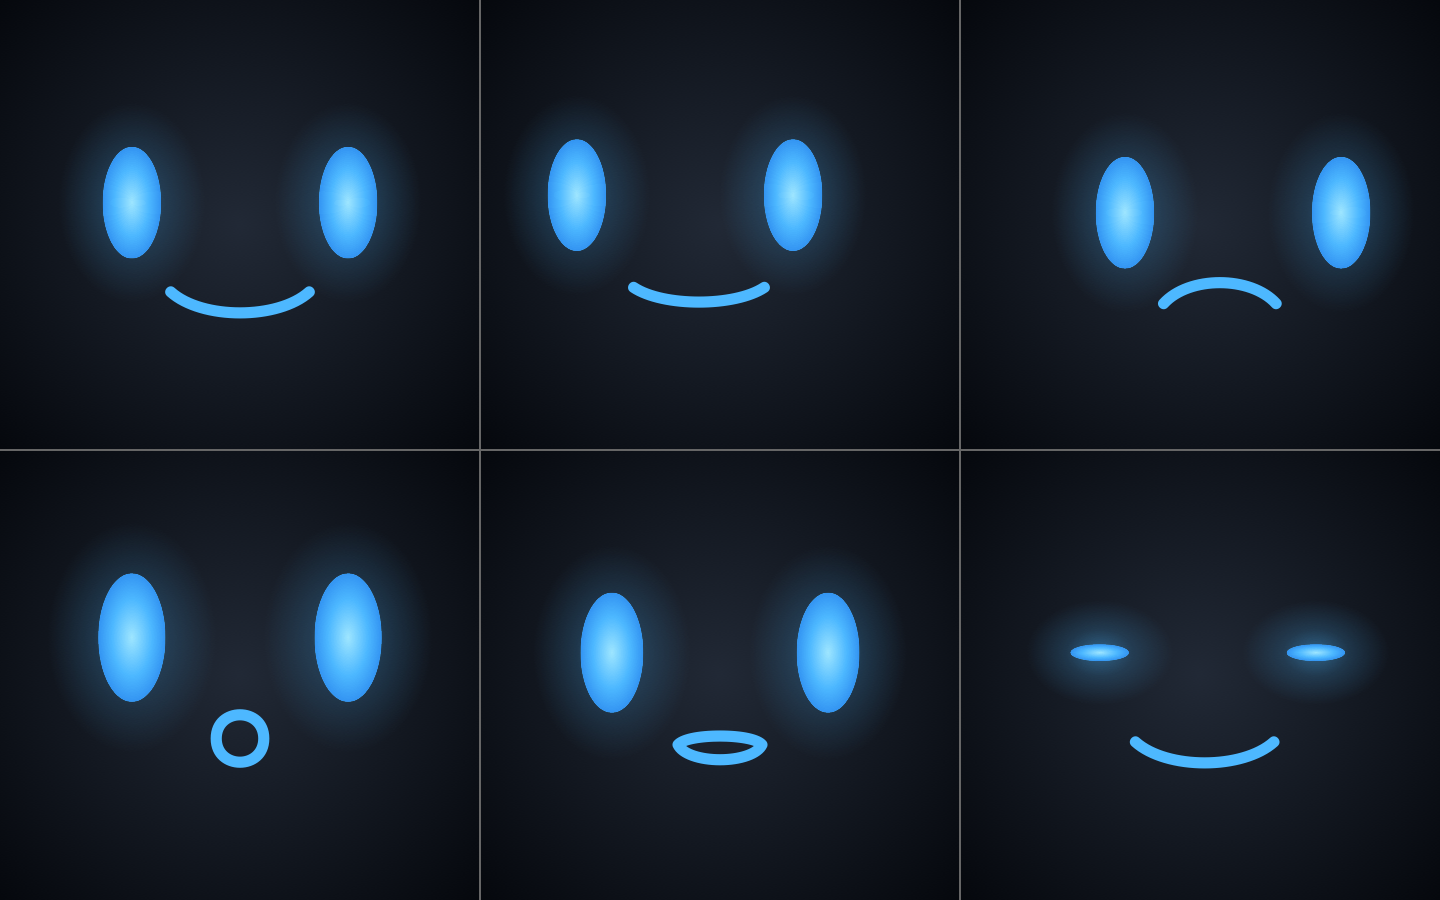
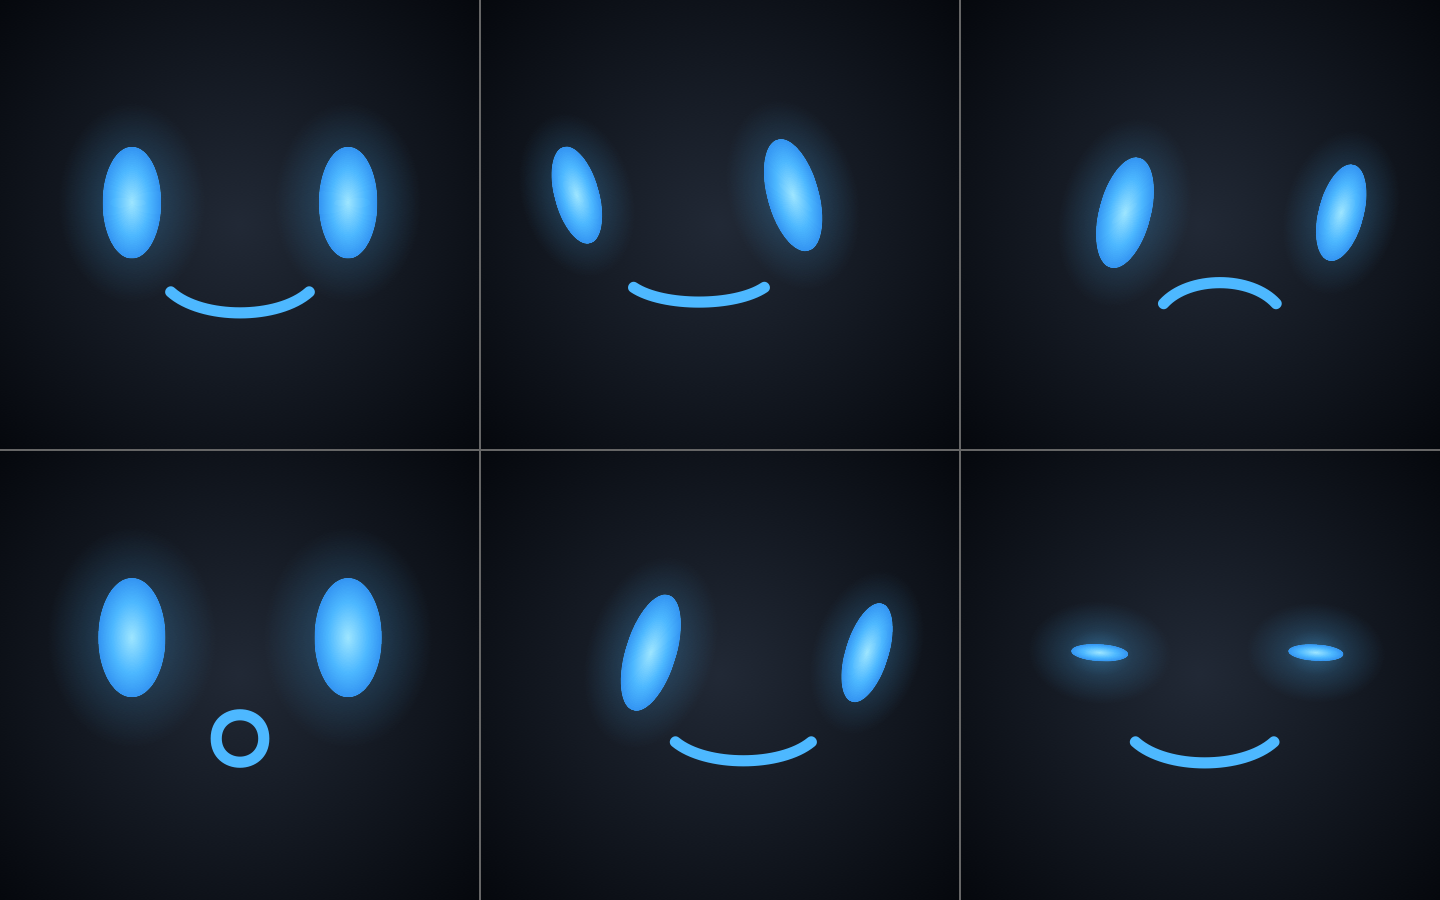
Eyes lean, turn and foreshorten toward the gaze direction

diff --git a/eye_draw.c b/eye_draw.c
@@ -28,6 +28,10 @@
 #define EYE_H         0.40f   /* eye height / face height              */
 #define GAZE_X        0.09f   /* max eye travel / face width            */
 #define GAZE_Y        0.09f   /* max eye travel / face height          */
+#define EYE_LEAN      0.30f   /* max tilt toward the gaze, radians     */
+#define EYE_TURN_X    0.20f   /* narrowing when looking sideways        */
+#define EYE_TURN_Y    0.12f   /* shortening when looking up or down     */
+#define EYE_DEPTH     0.08f   /* near/far eye size difference           */
 
 #define MOUTH_Y      -0.24f   /* mouth centre offset / face height     */
 
@@ -173,35 +177,47 @@ static void DoLayout(CGRect b, Layout *L)
 /* Scene parts                                                        */
 /* ------------------------------------------------------------------ */
 
+/* lx, ly: gaze direction (unit disk); gx, gy: gaze offset in pixels. */
 static void DrawEyes(CGContextRef ctx, const Layout *L, const EyeState *s,
-                     CGFloat gx, CGFloat gy)
+                     CGFloat lx, CGFloat ly, CGFloat gx, CGFloat gy)
 {
     CGFloat grow = 1.0f + 0.15f * s->surprise;
-    CGFloat ew = L->vw * EYE_W * grow;
-    CGFloat eh = L->vh * EYE_H * grow;
+    CGFloat ax = (CGFloat)fabs(lx), ay = (CGFloat)fabs(ly);
+    CGFloat ew = L->vw * EYE_W * grow * (1.0f - EYE_TURN_X * ax);
+    CGFloat eh = L->vh * EYE_H * grow * (1.0f - EYE_TURN_Y * ay);
+    CGFloat lean = -lx * EYE_LEAN;       /* look right -> tops lean right */
     CGFloat open = 1.0f - s->blink;
-    CGFloat h;
+    CGFloat h, depth, w;
+    CGPoint o = CGPointMake(0, 0);
     int side;
-
-    /* a blink squashes the oval down to a thin bar */
-    h = eh * open;
-    if (h < ew * 0.22f)
-        h = ew * 0.22f;
 
     for (side = -1; side <= 1; side += 2) {
         CGPoint ec = CGPointMake(L->vc.x + side * L->vw * EYE_X + gx,
                                  L->vc.y + L->vh * EYE_Y + gy);
-        CGRect eye = CenteredRect(ec, ew, h);
+        CGRect eye;
 
-        EllipticalRadial(ctx, ec, ew * 1.25f, h * 0.5f + ew * 0.75f, &kGlowRamp);
+        /* the eye on the side we look toward is a little farther away */
+        depth = 1.0f - EYE_DEPTH * lx * side;
+        w = ew * depth;
+
+        /* a blink squashes the oval down to a thin bar */
+        h = eh * depth * open;
+        if (h < w * 0.22f)
+            h = w * 0.22f;
+        eye = CenteredRect(o, w, h);
 
         CGContextSaveGState(ctx);
+        CGContextTranslateCTM(ctx, ec.x, ec.y);
+        CGContextRotateCTM(ctx, lean);
+
+        EllipticalRadial(ctx, o, w * 1.25f, h * 0.5f + w * 0.75f, &kGlowRamp);
+
         CGContextBeginPath(ctx);
         CGContextAddEllipseInRect(ctx, eye);
         CGContextClip(ctx);
         CGContextSetRGBFillColor(ctx, GLOW_R, GLOW_G, GLOW_B, 1);
         CGContextFillRect(ctx, eye);
-        EllipticalRadial(ctx, ec, ew * 0.5f, h * 0.5f, &kEyeRamp);
+        EllipticalRadial(ctx, o, w * 0.5f, h * 0.5f, &kEyeRamp);
         CGContextRestoreGState(ctx);
     }
 }
@@ -273,7 +289,7 @@ void EyeDraw(CGContextRef ctx, CGRect bounds, const EyeState *s)
     CGContextFillRect(ctx, bounds);
     Radial(ctx, L.vc, 0, L.vc, far, &kBackgroundRamp);
 
-    DrawEyes(ctx, &L, s, gx, gy);
+    DrawEyes(ctx, &L, s, lx, ly, gx, gy);
     DrawMouth(ctx, &L, s, gx, gy);
 
     CGContextRestoreGState(ctx);

diff --git a/tools/preview.c b/tools/preview.c
@@ -53,7 +53,7 @@ int main(int argc, char **argv)
         { -0.90f,  0.30f, 0.00f,  0.70f, 0.00f },   /* glance left             */
         {  0.85f, -0.40f, 0.00f, -1.00f, 0.00f },   /* frown, looking down-right */
         {  0.00f,  0.60f, 0.00f,  0.00f, 1.00f },   /* surprised "O", looking up */
-        {  0.00f,  0.00f, 0.00f,  0.30f, 0.50f },   /* halfway to surprise     */
+        {  1.00f,  0.00f, 0.00f,  0.90f, 0.00f },   /* full right, leaning     */
         {  0.20f,  0.00f, 0.85f,  1.00f, 0.00f }    /* mid-blink               */
     };
     const char *fullPath = (argc > 1) ? argv[1] : "robot_eye_preview.png";

diff --git a/README.md b/README.md
@@ -30,6 +30,6 @@ You can also double-click `RobotEye.app` in the Finder.
 ## Tuning
 
 - Timing and behavior: the `#define`s at the top of `EyeView.m`.
-- Size and proportions: `FACE_*`, `EYE_*`, `GAZE_*` and `MOUTH_Y` at the top of `eye_draw.c`.
+- Size and proportions: `FACE_*`, `EYE_*`, `GAZE_*` and `MOUTH_Y`. How far the eyes lean and turn with the gaze: `EYE_LEAN`, `EYE_TURN_X`, `EYE_TURN_Y` and `EYE_DEPTH` at the top of `eye_draw.c`.
 - How often it frowns or looks surprised: `FROWN_CHANCE` and `SURPRISE_CHANCE` in `EyeView.m`.
 - Colors: `GLOW_*` (eyes and mouth) and `kBackgroundRamp` in `eye_draw.c`.
